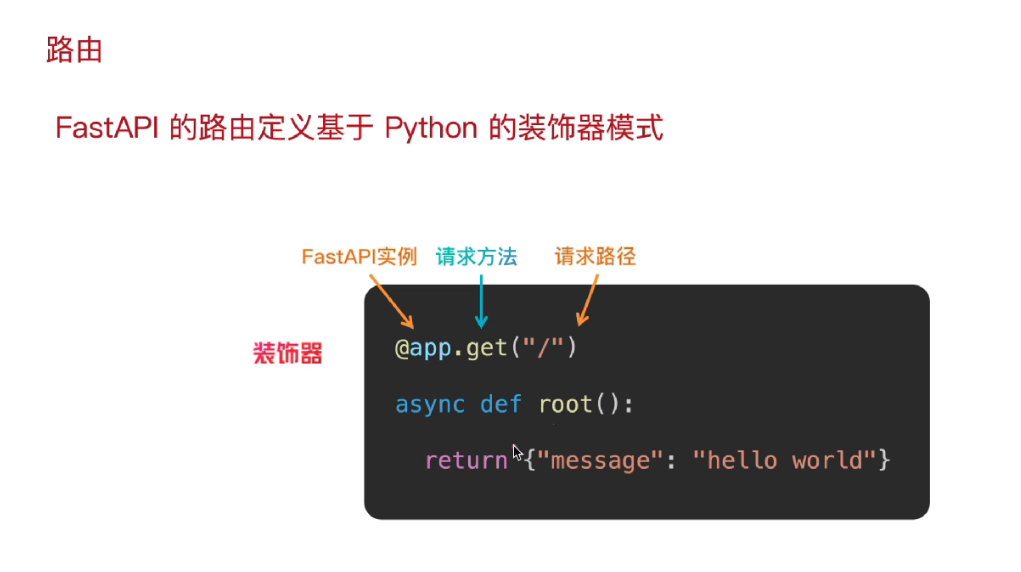
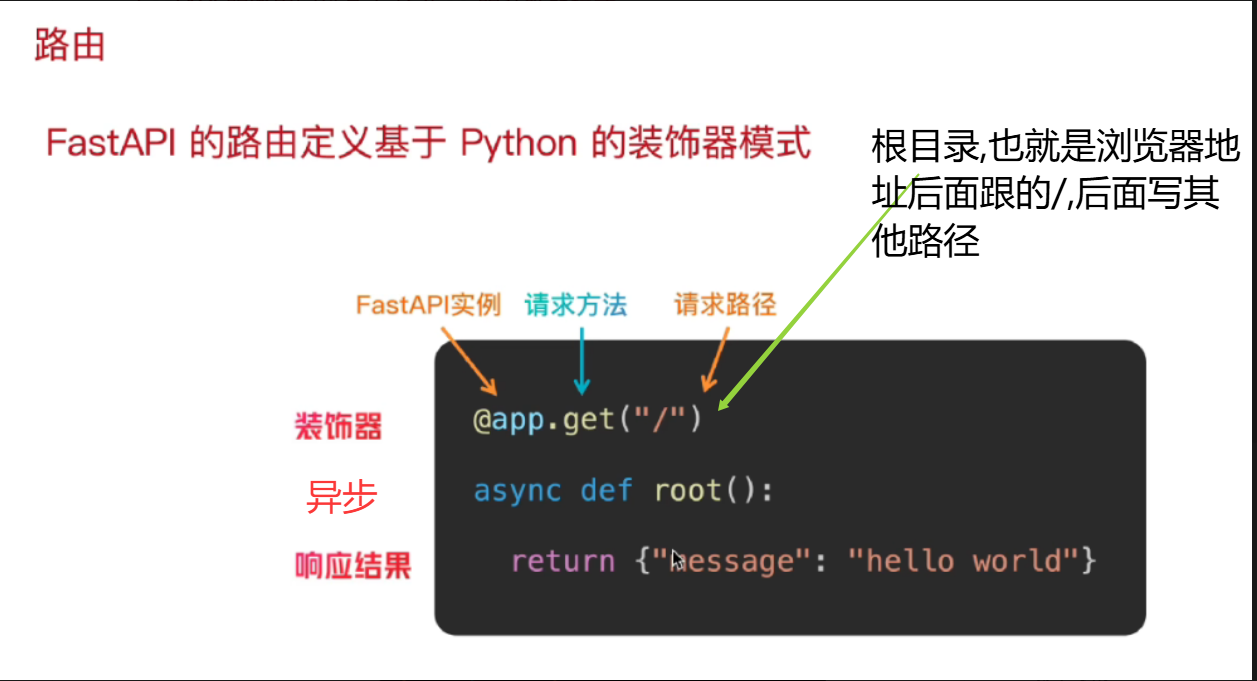
vault backup: 2026-11-26 14:15:35

diff --git a/最近笔记/FastAPI从入门到实战完整教程.md b/最近笔记/FastAPI从入门到实战完整教程.md
@@ -323,7 +323,7 @@ from fastapi import FastAPI
 
 app = FastAPI()
 
-@app.get("/")
+@app.get("/")  #这里/表示根路径
 def root():
     return {"message": "Hello, FastAPI!"}
 
